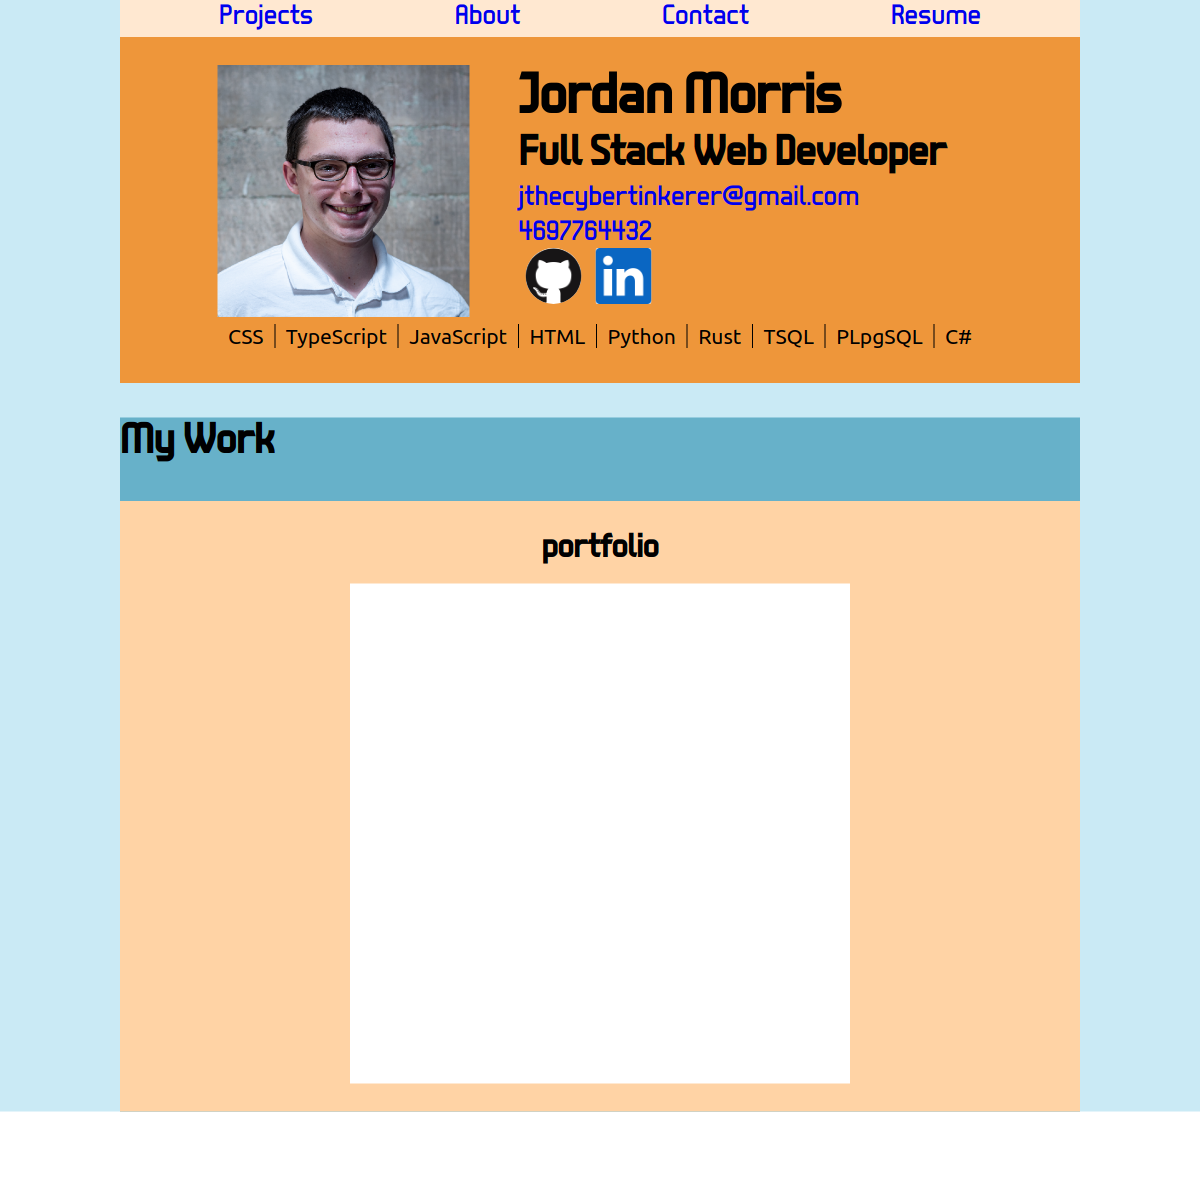
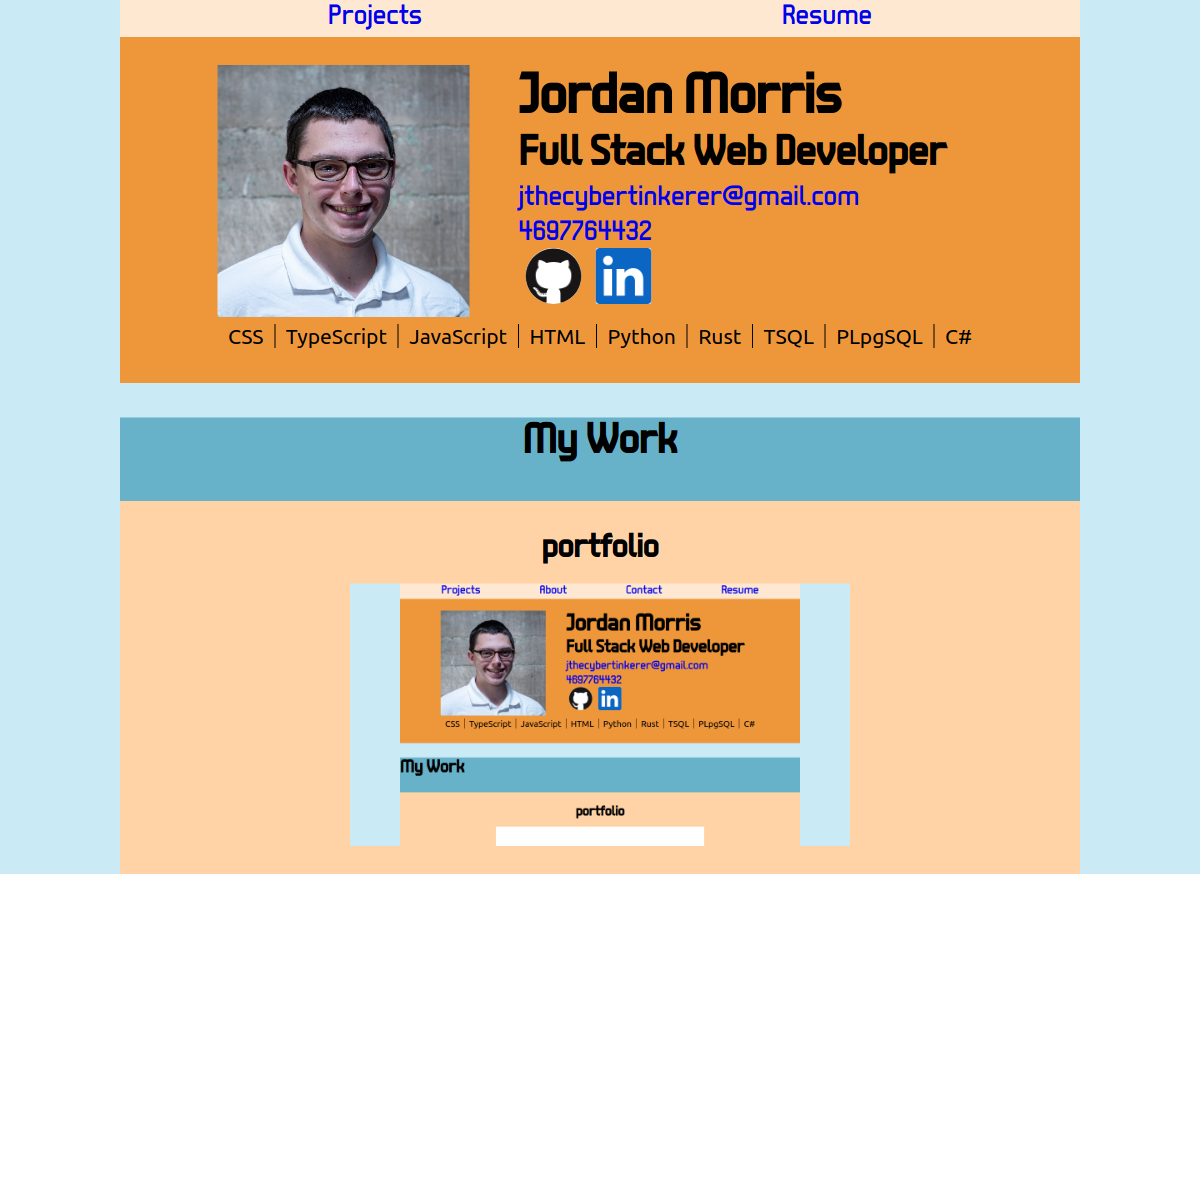
updated project previews, and preview images

diff --git a/nextjs/components/Nav/index.js b/nextjs/components/Nav/index.js
@@ -20,16 +20,10 @@ class Nav extends React.Component {
           <a id="projects" href="#to-projects">
             Projects
           </a>
-          <a id="about" href="#to-about">
-            About
-          </a>
-
-          <a id="contact" href="#to-contact">
-            Contact
-          </a>
           <a
             id="resume"
-            href="https://docs.google.com/document/d/1YUacd7AiDdvg1hP2_EvLmSacvXsVHmDc1Wi0NN9CPfE/edit?usp=sharing"
+            href="https://docs.google.com/document/d/1tftm9gdhzvTsu1TWo0zCRIA-dBtdRJUKJEono18IXPc/edit?usp=sharing"
+            rel="noopener noreferer"
             target="_blank"
           >
             Resume

diff --git a/src/components/Nav/index.js b/src/components/Nav/index.js
@@ -20,16 +20,10 @@ class Nav extends React.Component {
           <a id="projects" href="#to-projects">
             Projects
           </a>
-          <a id="about" href="#to-about">
-            About
-          </a>
-
-          <a id="contact" href="#to-contact">
-            Contact
-          </a>
           <a
             id="resume"
-            href="https://docs.google.com/document/d/1YUacd7AiDdvg1hP2_EvLmSacvXsVHmDc1Wi0NN9CPfE/edit?usp=sharing"
+            href="https://docs.google.com/document/d/1tftm9gdhzvTsu1TWo0zCRIA-dBtdRJUKJEono18IXPc/edit?usp=sharing"
+            rel="noopener noreferer"
             target="_blank"
           >
             Resume

diff --git a/src/components/ProjectCard/index.js b/src/components/ProjectCard/index.js
@@ -37,7 +37,7 @@ const ProjectCard = (props) => {
       {props.homepageUrl ? (
         <img
           className="project-photo"
-          src={`https://image.thum.io/get/auth/39920-c170603da8ed2bea99b4a0731c1b9534/width/500/maxAge/5/${props.liveUrl}`}
+          src={`${props.liveUrl}preview/preview-1200x630.png`}
           alt={props.photoAlt || defaultProjectPhotoAltText}
         />
       ) : (

diff --git a/src/components/Projects/Projects.css b/src/components/Projects/Projects.css
@@ -9,7 +9,7 @@ div.Projects .no-content > * {
   text-align: center;
 }
 
-div.Projects > h2 {
+div.Projects h2, div.Projects h3 {
   text-align: center;
 }
 
